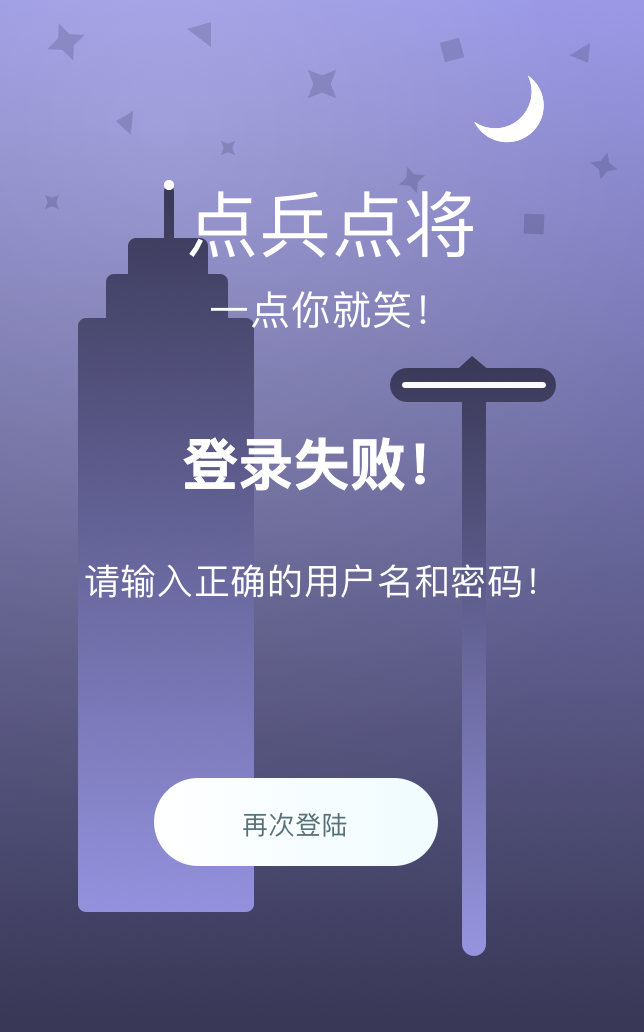
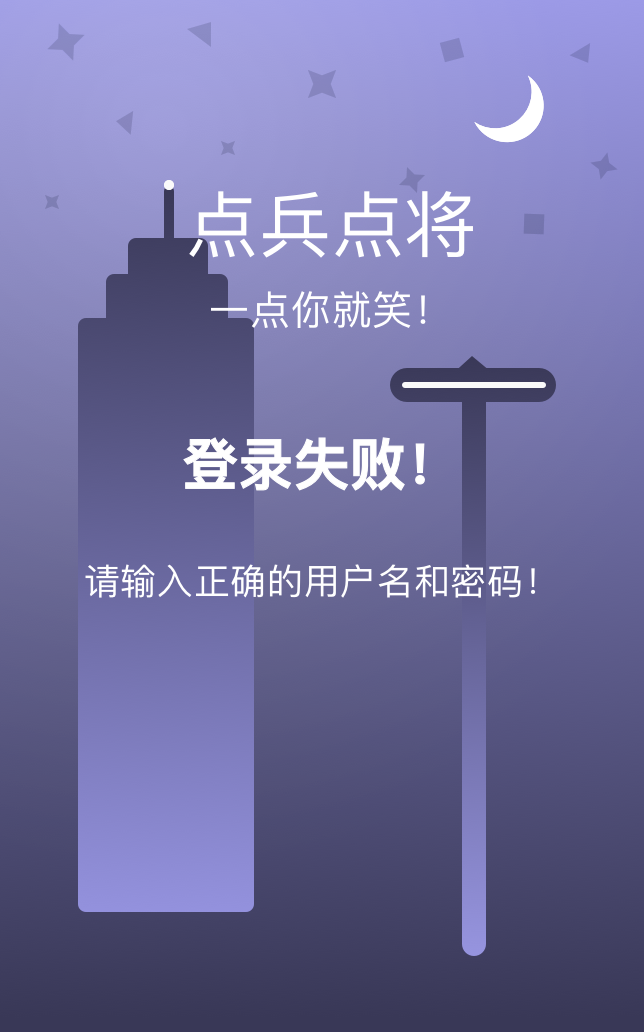
新增登录页相关按钮图片及相关css、html初步设置

Changed region(s): [[0.2174, 0.7442, 0.6832, 0.8372]]

diff --git a/web/index.html b/web/index.html
@@ -19,15 +19,20 @@
           <p id="registerbutton" type="button"><image src="images/register.png" width=97.2 height=34.2></image></p>
          </div>
       
-         <div id="startloginbutton" type="button">
-           <image src="images/start.png" width=237 height=82></image>
-         </div>
-    
+
          <div id=login>
             <p id="loginbg"><image src="images/loginbg.png" width=241 height=387></image></p>
-           
+            <div id="startloginbutton" type="button">
+              <image src="images/start.png" width=180 height=60></image>
+            </div>          
+
+            <div id="loginagainbutton" type="button">
+              <image src="images/loginagain.png" width=120 height=40></image>
+            </div>     
+
             <div id="successlogin" style="display:none">
                 <image src="images/successlogin.png" width=241 height=387></image>
+
               </div>
          <div id=loginbe style="display:block">
            <p id="userid"><input type="text" name="userid"style="width:150px; height:18px;"><br></p>

diff --git a/web/styles.css b/web/styles.css
@@ -684,9 +684,18 @@
 }
 #startloginbutton{
   position:absolute;
-  left: 600px;
-  top: 500px;
+  left: 630px;
+  top: 400px;
+  z-index:5;
 }
+
+#loginagainbutton{
+  position:absolute;
+  left: 665px;
+  top: 400px;
+  z-index:5;
+}
+
 #loginbg{
   position: absolute;
   left: 600px;
@@ -721,20 +730,20 @@
 }
 #userid{
   position:absolute;
-  left: 675px;
+  left: 670px;
   top: 270px;
   z-index:2;
 }
 #userpassword{
   position:absolute;
-  left: 675px;
+  left: 670px;
   top: 325px;
   z-index:2;
 }
 #signup{
   position:absolute;
   left: 645px;
-  top: 370px;
+  top: 420px;
   z-index:2;
 }
 
